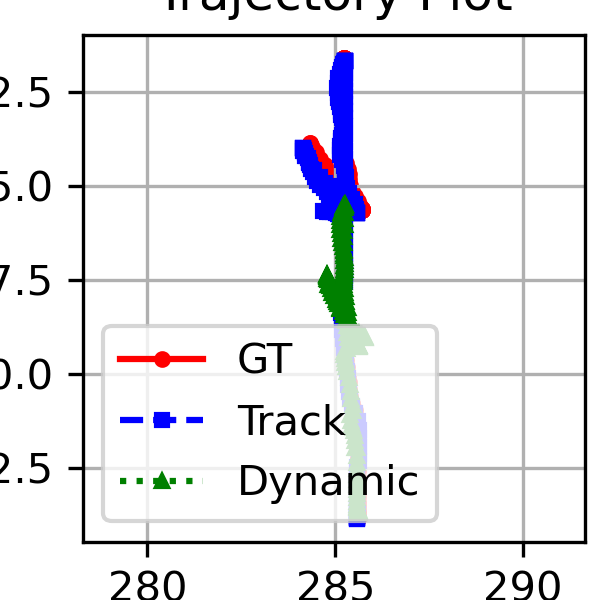
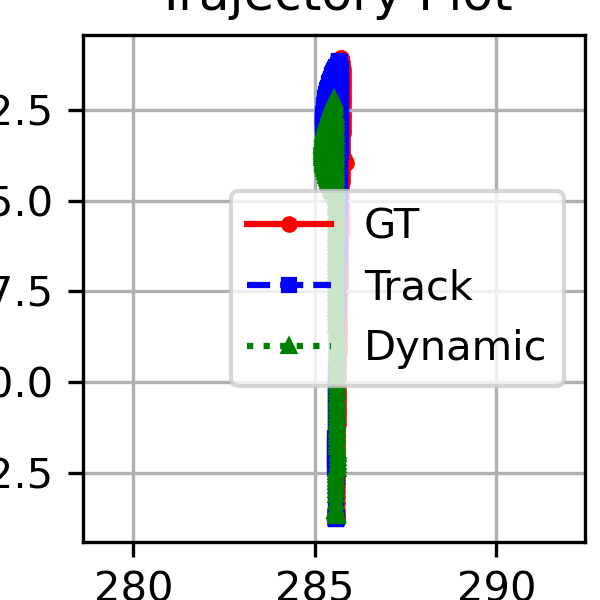
local planner look OK but need to build the control

diff --git a/agent/parking_agent.py b/agent/parking_agent.py
@@ -625,7 +625,7 @@ class ParkingAgent:
                         )
 
                         # Draw arrow
-                        if 0:
+                        if 1:
                             self.world._world.debug.draw_arrow(
                                 start_loc,
                                 end_loc,
@@ -647,7 +647,7 @@ class ParkingAgent:
                     loc = tf.transform.location
                     dist = math.sqrt((loc.x - goal_x)**2 +
                                     (loc.y - goal_y)**2)
-                    if dist <= 2.0:
+                    if dist <= 0.6:
                         self.final_steps += 1
 
             self.prev_xy_thea = [vehicle_transform.location.x,
@@ -656,7 +656,7 @@ class ParkingAgent:
 
         idx_in_curr_loop = 4 # self.step % self.process_frequency + 1
         control = self.pid_controller.run_step(target_speed=4.0, waypoint=self.buffered_traj[idx_in_curr_loop])
-        # self.player.apply_control(control)
+        self.player.apply_control(control)
 
     def make_target_transform(self, world_z, x, y, yaw_deg):
         return carla.Transform(

diff --git a/model/parking_model.py b/model/parking_model.py
@@ -486,8 +486,8 @@ class ParkingModelDiffusion(nn.Module):
             start_end_relative_point = torch.cat((start_relative_point, end_relative_point), dim=1)
         else:
             start_end_relative_point = start_relative_point
-            if final_steps != 0:
-                start_end_relative_point = torch.cat((start_relative_point, end_relative_point.repeat(1, final_steps, 1)), dim=1)
+            # if final_steps != 0:
+            #     start_end_relative_point = torch.cat((start_relative_point, end_relative_point.repeat(1, final_steps, 1)), dim=1)
         # start_end_relative_point = torch.cat((start_relative_point, end_relative_point), dim=1)
         # torch.cat((data["gt_target_point_traj"][:,0:1,:], data["gt_target_point_traj"][:,-1:,:]), dim=1)
         if self.cfg.motion_head == "embedding":
